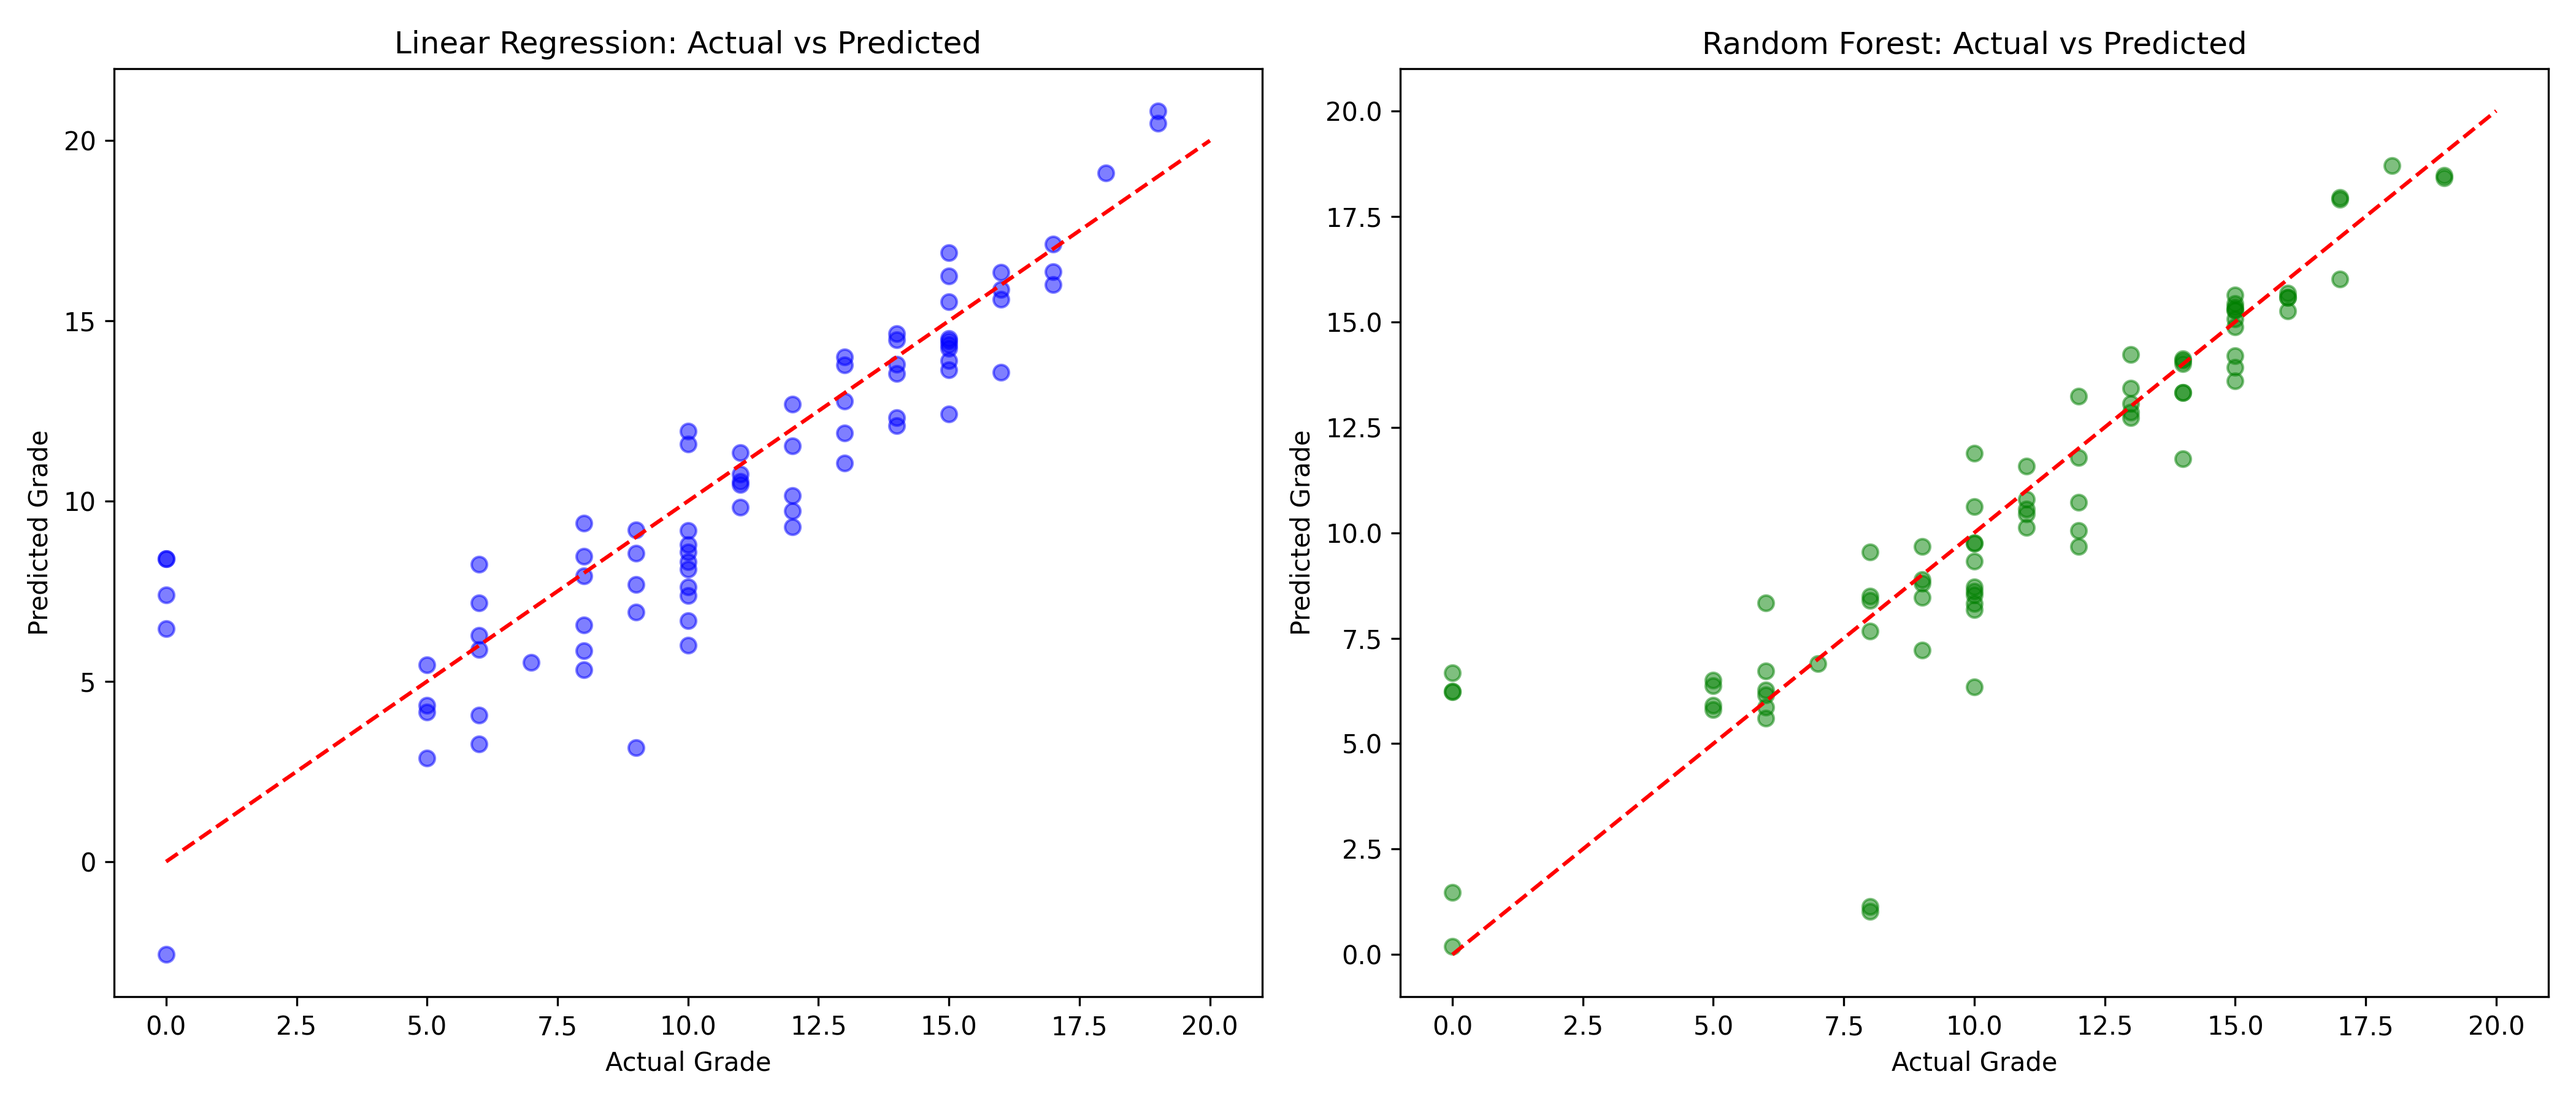
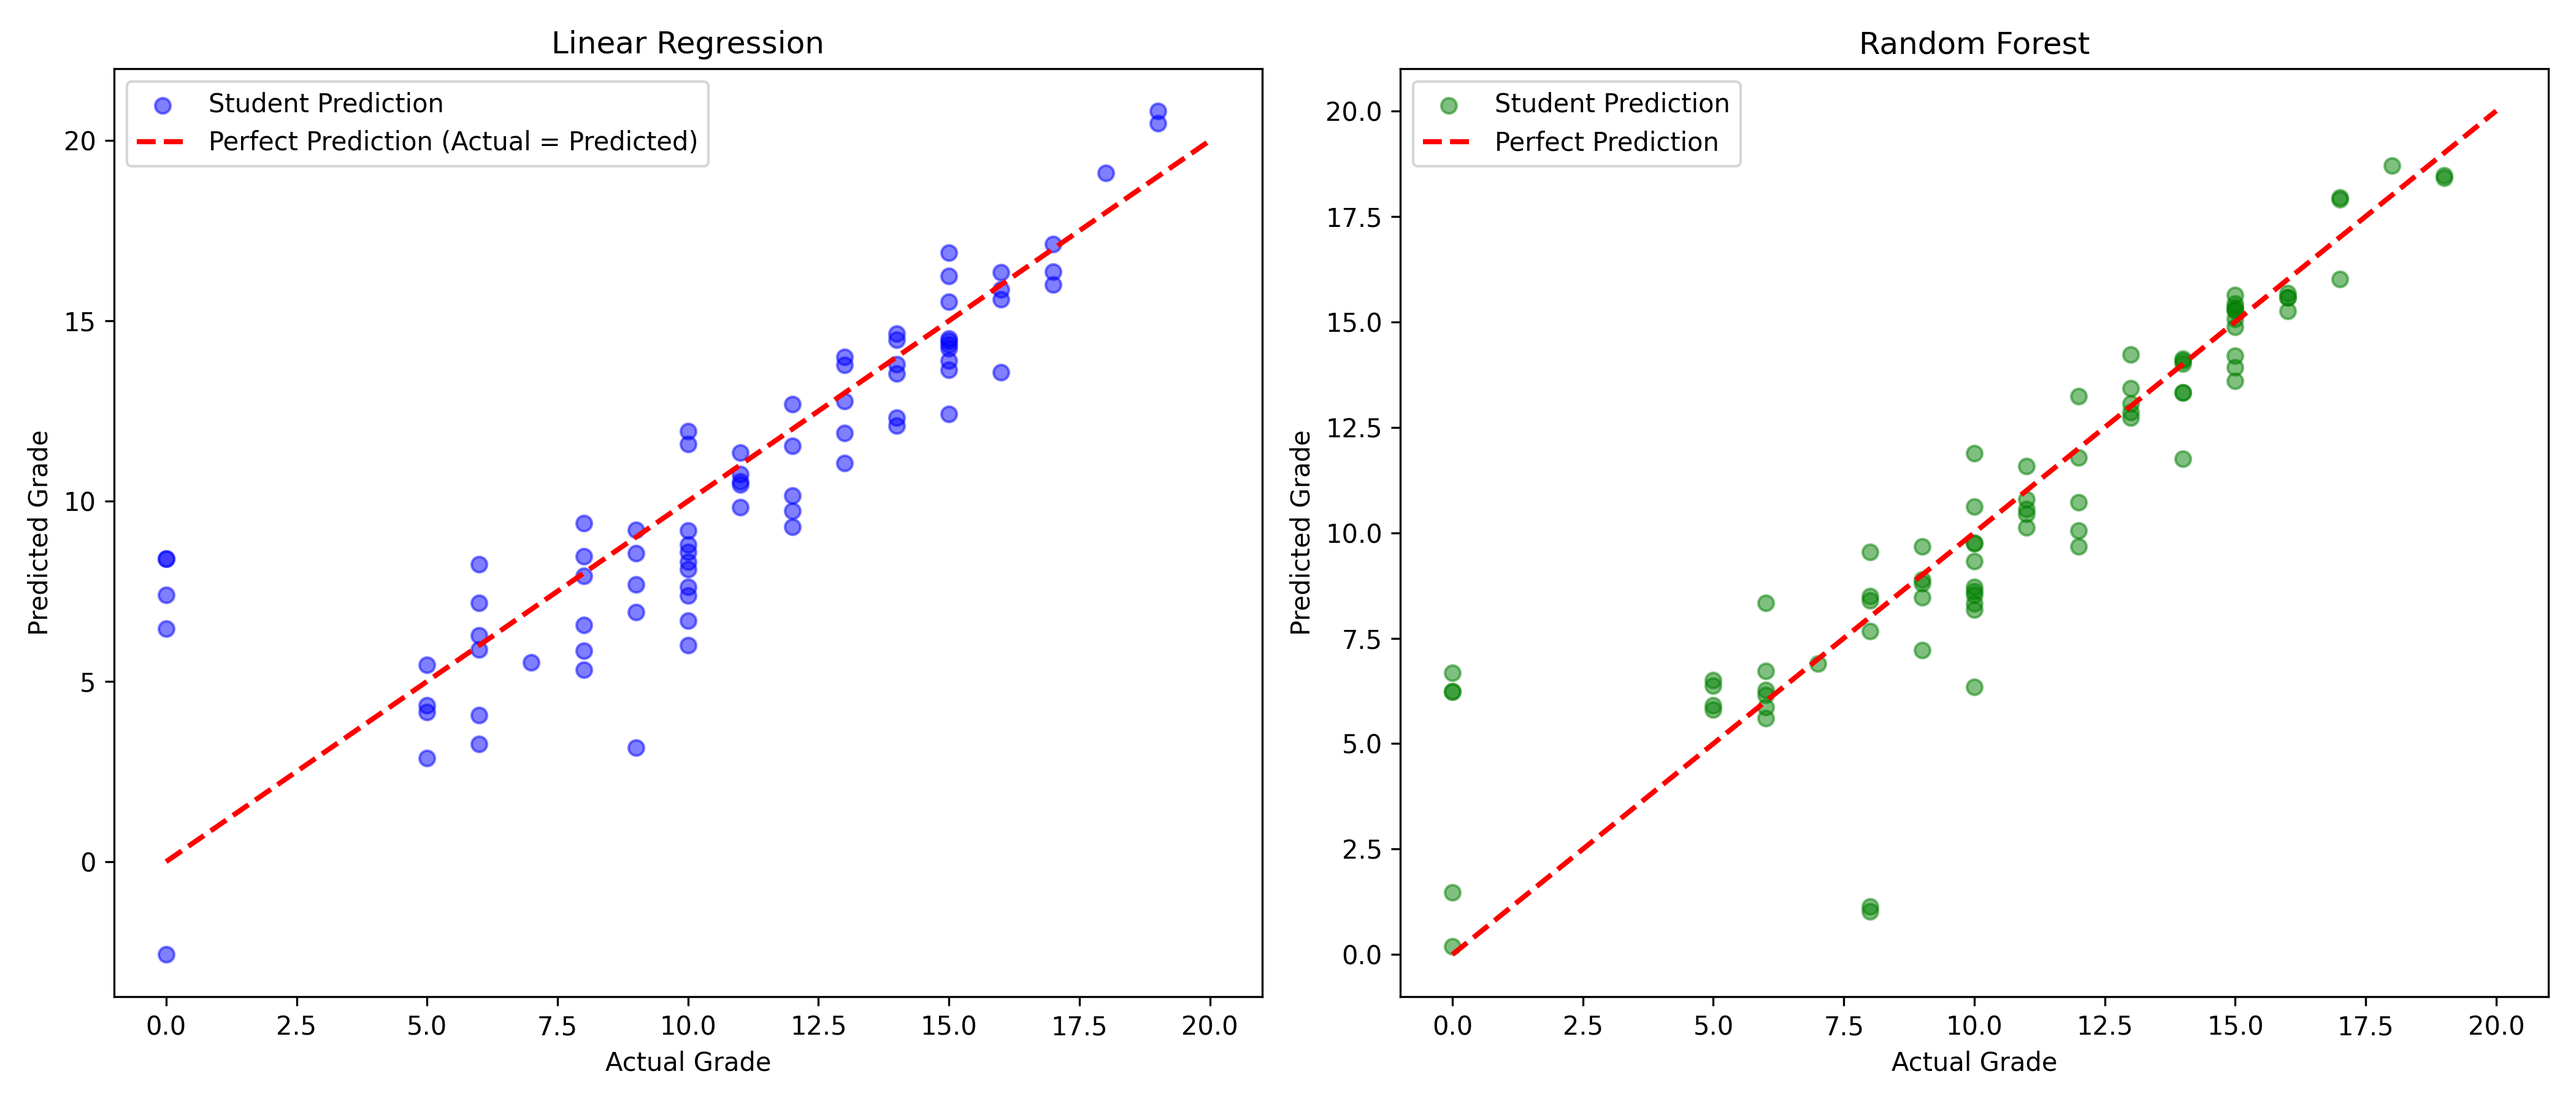
Chart Legend

Changed region(s): [[0.0624, 0.0311, 0.3743, 0.1556], [0.5614, 0.0311, 0.8733, 0.1556]]

diff --git a/main.py b/main.py
@@ -66,19 +66,21 @@ def main():
     
     # Plot 1: Linear Regression
     plt.subplot(1, 2, 1)
-    plt.scatter(y_test, lr_pred, color='blue', alpha=0.5)
-    plt.plot([0, 20], [0, 20], color='red', linestyle='--')
-    plt.title('Linear Regression: Actual vs Predicted')
+    plt.scatter(y_test, lr_pred, color='blue', alpha=0.5, label='Student Prediction')
+    plt.plot([0, 20], [0, 20], color='red', linestyle='--', linewidth=2, label='Perfect Prediction (Actual = Predicted)')
+    plt.title('Linear Regression')
     plt.xlabel('Actual Grade')
     plt.ylabel('Predicted Grade')
+    plt.legend()
     
     # Plot 2: Random Forest
     plt.subplot(1, 2, 2)
-    plt.scatter(y_test, rf_pred, color='green', alpha=0.5)
-    plt.plot([0, 20], [0, 20], color='red', linestyle='--')
-    plt.title('Random Forest: Actual vs Predicted')
+    plt.scatter(y_test, rf_pred, color='green', alpha=0.5, label='Student Prediction')
+    plt.plot([0, 20], [0, 20], color='red', linestyle='--', linewidth=2, label='Perfect Prediction')
+    plt.title('Random Forest')
     plt.xlabel('Actual Grade')
     plt.ylabel('Predicted Grade')
+    plt.legend()
     
     plt.tight_layout()
     if not os.path.exists("results"):
